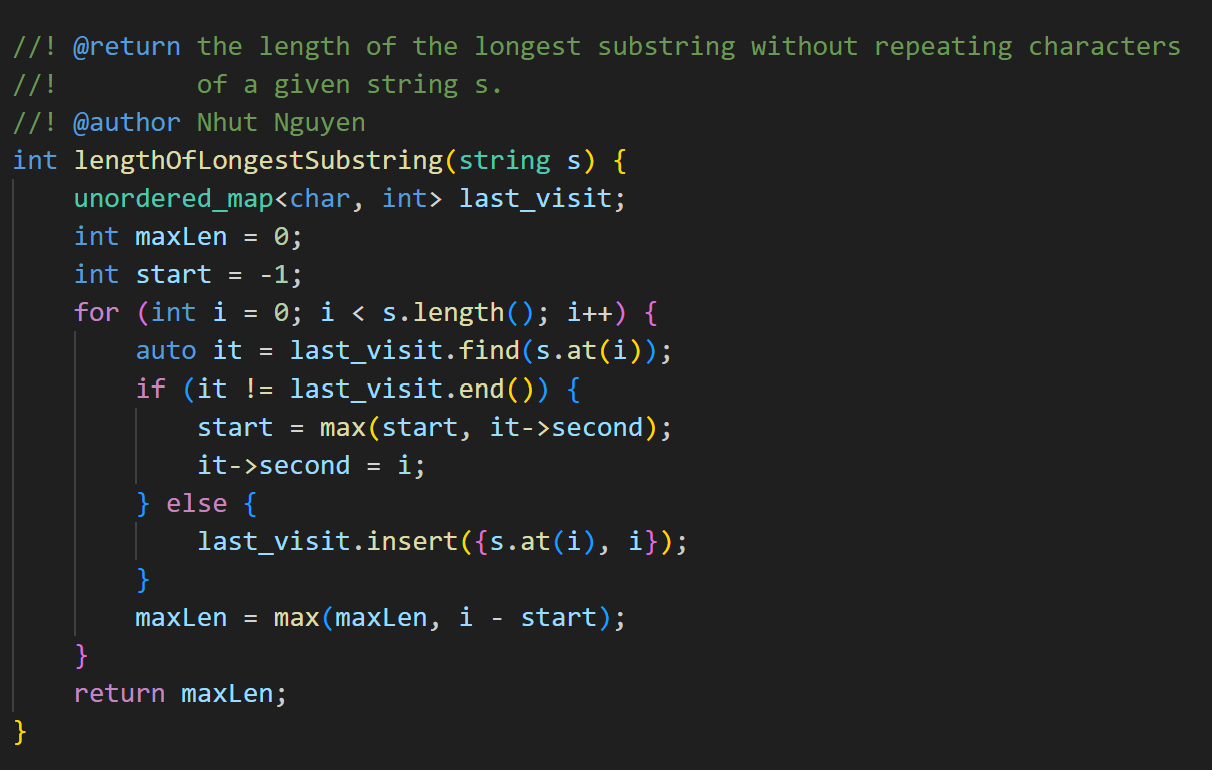
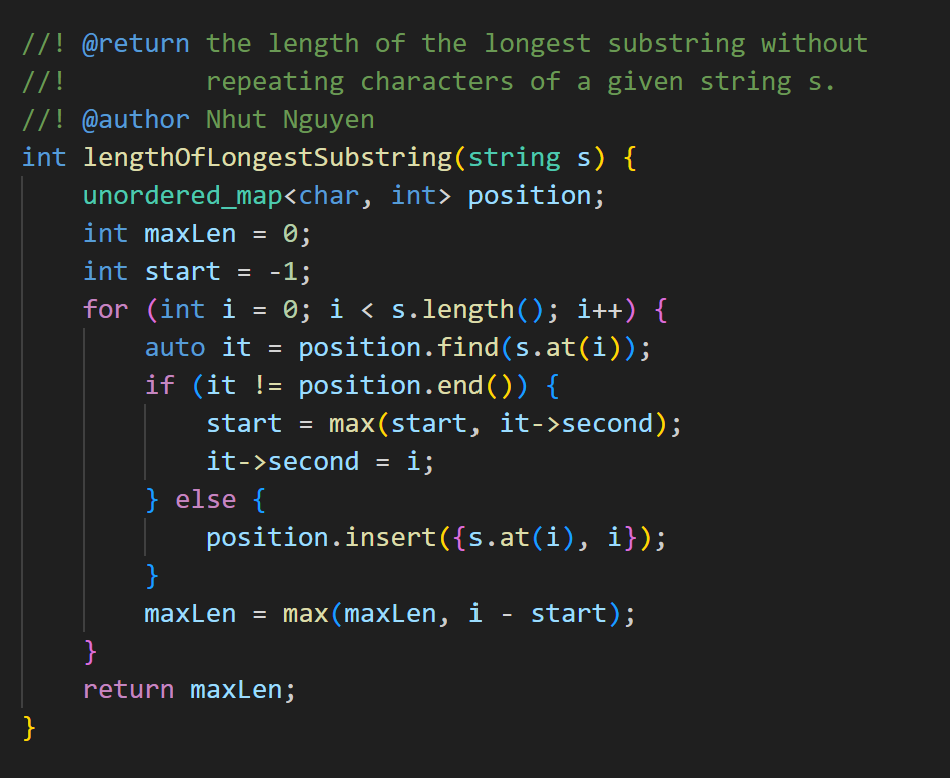
3 to Ghost

diff --git a/backup/3. Longest Substring Without Repeating Characters/3_Longest_Substring_Without_Repeating_Characters.cpp b/backup/3. Longest Substring Without Repeating Characters/3_Longest_Substring_Without_Repeating_Characters.cpp
@@ -3,20 +3,20 @@
 #include <algorithm>
 using namespace std;
 
-//! @return the length of the longest substring without repeating characters
-//!         of a given string s.
+//! @return the length of the longest substring without 
+//!         repeating characters of a given string s.
 //! @author Nhut Nguyen
 int lengthOfLongestSubstring(string s) {
-    unordered_map<char, int> last_visit;
+    unordered_map<char, int> position;
     int maxLen = 0;
     int start = -1;
     for (int i = 0; i < s.length(); i++) {
-        auto it = last_visit.find(s.at(i));
-        if (it != last_visit.end()) {
+        auto it = position.find(s.at(i));
+        if (it != position.end()) {
             start = max(start, it->second);
             it->second = i;
         } else {
-            last_visit.insert({s.at(i), i});
+            position.insert({s.at(i), i});
         }
         maxLen = max(maxLen, i - start);
     }

diff --git a/docs/source/String/08_STR_3_Longest_Substring_Without_Repeating_Characters.md b/docs/source/String/08_STR_3_Longest_Substring_Without_Repeating_Characters.md
@@ -33,7 +33,7 @@ Notice that the answer must be a substring, "pwke" is a subsequence and not a su
 
 ## Solution: Store the position of the visited characters
 
-Whenever you meet a visited character `s[i] == s[j]` for some `0 <= i < j < s.length`, the substring `"s[i]...s[j - 1]"` might be valid, i.e. it consist of only nonrepeating characters.
+Whenever you meet a visited character `s[i] == s[j]` for some `0 <= i < j < s.length`, the substring `"s[i]...s[j - 1]"` might be valid, i.e., it consists of only nonrepeating characters.
 
 But in case you meet another visited character `s[x] == s[y]` where `x < i < j < y`, the substring `"s[x]...s[y - 1]"` is not valid because it consists of repeated character `s[i] == s[j]`. 
 
@@ -63,10 +63,13 @@ int lengthOfLongestSubstring(string s) {
     int maxLen = 0;
     int start = -1;
     for (int i = 0; i < s.length(); i++) {
-        if (position.find(s[i]) != position.end()) {
-            start = max(start, position[s[i]]);
+        auto it = position.find(s.at(i));
+        if (it != position.end()) {
+            start = max(start, it->second);
+            it->second = i;
+        } else {
+            position.insert({s.at(i), i});
         }
-        position[s[i]] = i;
         maxLen = max(maxLen, i - start);
     }
     return maxLen;
@@ -91,11 +94,11 @@ Output:
    - `maxLen` is initialized to 0, representing the maximum substring length found so far.
    - `start` is initialized to -1. This variable will be used to keep track of the starting index of the current substring.
 
-2. The code iterates through each character of the input string `s`. Inside the loop, the code checks whether the current character `s[i]` is already present in the `position` map. If the character is found in the map, it means that the character has occurred previously in the current substring.
+2. The code iterates through each character of the input string `s`. Inside the loop, the code checks whether the current character `s.at(i)` is already in the `position` map. If the character is found in the map, it means that it has occurred previously in the current substring.
 
-3. If the character is found in the map (indicating a repeating character), the code updates the `start` index to the maximum of its current value (`start`) and the position of the character in the map (`position[s[i]]`). This step effectively "slides" the window to the right, excluding the repeating character and any characters before it.
+3. If the character is found in the map (indicating a repeating character), the code updates the `start` index to the maximum of its current value (`start`) and the position of the character in the map (`it->second` is `position[s.at(i)]`). This step effectively "slides" the window to the right, excluding the repeating character and any characters before it.
 
-4. The code updates the `position` map with the current character's position by setting `position[s[i]] = i`. This keeps track of the most recent position of each character.
+4. The code updates the `position` map with the current character's position by `position.insert({s.at(i), i})` which means setting `position[s.at(i)] = i`. This keeps track of the most recent position of each character.
 
 5. At each iteration, the code calculates the length of the current substring (`i - start`) and updates `maxLen` to be the maximum of its current value and the calculated length. This ensures that `maxLen` always stores the maximum length encountered during the traversal.
 
@@ -103,7 +106,7 @@ Output:
 
 
 ### Complexity
-This solution efficiently finds the length of the longest substring without repeating characters by using a sliding window approach and an unordered map to track character positions. It iterates through the string, updates the window, and calculates the maximum length as it goes. 
+This solution efficiently finds the length of the longest substring without repeating characters by using a sliding window approach and an unordered map to track character positions. It iterates through the string, updates the window, and calculates the maximum length. 
 
 * Runtime: `O(N)`, where `N = s.length`.
 * Extra space: `O(N)`.
